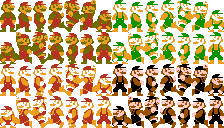
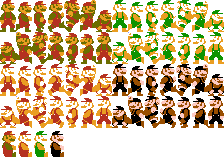
add: time limit

diff --git a/04_Physics/player.js b/04_Physics/player.js
@@ -4,8 +4,9 @@ const MARIO_WALK_LEFT = 2;
 const MARIO_WALK_RIGHT = 3;
 const MARIO_JUMP_LEFT = 4;
 const MARIO_JUMP_RIGHT = 5;
+const MARIO_DOWN_POLE_RIGHT = 6;
 
-const MARIO_DIE = 6;
+const MARIO_DIE = 7;
 
 const STATE_MINI = 0;
 const STATE_MAX = 1;
@@ -23,11 +24,12 @@ function Player(x, y, map, lives) {
 	// Loading spritesheets
 	var mario = new Texture("imgs/mario.png");
 	this.state = STATE_MINI;
-
+	
 	//pole related
 	this.movePlayer = true;
 	this.moveRigth = false;
 	this.prize = true;
+	this.movePole = false;
 
 	// Set attributes for VIDAS y activo
 	this.lives=lives;
@@ -66,6 +68,9 @@ function Player(x, y, map, lives) {
 
 	sprite.addAnimation();
 	sprite.addKeyframe(MARIO_JUMP_RIGHT, [16, 16, 16, 16]);
+
+	sprite.addAnimation();
+	sprite.addKeyframe(MARIO_DOWN_POLE_RIGHT, [64, 0, 16, 16]);
 
 	sprite.addAnimation();
 	sprite.addKeyframe(MARIO_DIE, [32, 16, 16, 16]);
@@ -129,6 +134,12 @@ function Player(x, y, map, lives) {
 	spriteStart.addKeyframe(MARIO_JUMP_RIGHT, [16, 80, 16, 16]);
 	spriteStart.addKeyframe(MARIO_JUMP_RIGHT, [96, 80, 16, 16]);
 
+	spriteStart.addAnimation();
+	spriteStart.addKeyframe(MARIO_DOWN_POLE_RIGHT, [64, 0, 16, 16]);
+	spriteStart.addKeyframe(MARIO_DOWN_POLE_RIGHT, [128, 0, 16, 16]);
+	spriteStart.addKeyframe(MARIO_DOWN_POLE_RIGHT, [64, 64, 16, 16]);
+	spriteStart.addKeyframe(MARIO_DOWN_POLE_RIGHT, [128, 64, 16, 16]);
+
 	//big
 	var marioBig = new Texture("imgs/marioBig.png");
 	spriteBig = new Sprite(x, y, 32, 64, 17, marioBig);
@@ -154,6 +165,9 @@ function Player(x, y, map, lives) {
 
 	spriteBig.addAnimation();
 	spriteBig.addKeyframe(MARIO_JUMP_RIGHT, [80, 0, 16, 32]);
+
+	spriteBig.addAnimation();
+	spriteBig.addKeyframe(MARIO_DOWN_POLE_RIGHT, [0, 126, 16, 32]);
 
 	//Start
 	spriteStartBig = new Sprite(x, y, 32, 64, 17, marioBig);
@@ -214,6 +228,11 @@ function Player(x, y, map, lives) {
 	spriteStartBig.addKeyframe(MARIO_JUMP_RIGHT, [80, 64, 16, 32]);
 	spriteStartBig.addKeyframe(MARIO_JUMP_RIGHT, [192, 64, 16, 32]);
 
+	spriteStartBig.addAnimation();
+	spriteStartBig.addKeyframe(MARIO_DOWN_POLE_RIGHT, [0, 126, 16, 32]);
+	spriteStartBig.addKeyframe(MARIO_DOWN_POLE_RIGHT, [16, 126, 16, 32]);
+	spriteStartBig.addKeyframe(MARIO_DOWN_POLE_RIGHT, [32, 126, 16, 32]);
+	spriteStartBig.addKeyframe(MARIO_DOWN_POLE_RIGHT, [48, 126, 16, 32]);
 
 	sprite.setAnimation(MARIO_STAND_RIGHT);
 	spriteStart.setAnimation(MARIO_STAND_RIGHT);
@@ -246,6 +265,14 @@ Player.prototype.update = function (deltaTime) {
 	if (this.live) {
 		this.controlFormaBrick(this.map.bricks);
 		this.controlFormaBrick(this.map.interrogation);
+		
+		if(this.movePole){
+			if (this.listSprit[this.state].currentAnimation != MARIO_DOWN_POLE_RIGHT){
+				this.listSprit[this.state].setAnimation(MARIO_DOWN_POLE_RIGHT);
+			}
+
+			this.listSprit[this.state].y +=2;
+		}
 		
 		if(this.moveRigth){
 			if (this.listSprit[this.state].currentAnimation != MARIO_WALK_RIGHT){
@@ -363,6 +390,13 @@ Player.prototype.update = function (deltaTime) {
 
 Player.prototype.liveUp = function liveUp(){
 	this.lives = this.lives + 1;
+}
+
+Player.prototype.timeOut = function timeOut() {
+	if(this.timeout){
+		this.state= STATE_MINI;
+	}
+	this.die();
 }
 
 Player.prototype.die = function die() {

diff --git a/04_Physics/scene.js b/04_Physics/scene.js
@@ -242,32 +242,34 @@ Scene.prototype.update = function (deltaTime) {
 			if(this.player.prize){
 				this.puntaje = this.puntaje + prize_pole[index];
 				this.player.prize = false;
+				this.player.movePole = true;
 			}
 			if(index<8){
-				this.player.listSprit[this.player.state].x = pole.sprite.x
-				setTimeout(() => {
-					this.player.listSprit[this.player.state].y = this.player.listSprit[this.player.state].y +2
-				}, 100);
+				this.player.listSprit[this.player.state].x = pole.sprite.x - 8
 			}
 			if(index==8){
+				this.player.movePole = false;
 				win= true;
 			}
 		}
 	})
 
 	if(win){
-		//console.log(this.player.listSprit[this.player.state].x)
-		if(count<80){
+		if(count<94){
 			this.player.moveRigth = true;
 			count+=1;
 		}else{
 			this.player.moveRigth = false;
+			//FIN ESCENA.
 		}
-		
+	}
+	if((this.currentTime / 1000)> TIMEOUT  && this.player.live){
+		this.player.timeOut();
 	}
 }
 
 Scene.prototype.draw = function () {
+	//console.log(this.currentTime)
 	// Get canvas object, then its context
 	var canvas = document.getElementById("game-layer");
 	var context = canvas.getContext("2d");
@@ -316,9 +318,11 @@ Scene.prototype.draw = function () {
 	context.restore();
 
 	text = "Puntaje: " + completeNumbre(this.puntaje, 6) + "  Monedas: " +this.cantMoney +"  Vidas: " + this.player.lives;
+	text2 ="Time: "+ completeNumbre(TIMEOUT - Math.floor(this.currentTime / 1000), 3) + " seconds"
 	context.font = "10px Mario";
 	context.fillStyle = "#fff";
 	context.fillText(text, 10, 25);
+	context.fillText(text2, 10, 40);
 }
 
 

diff --git a/04_Physics/game.js b/04_Physics/game.js
@@ -3,6 +3,7 @@
 
 const FRAME_RATE = 60;
 const TIME_PER_FRAME = 1000 / FRAME_RATE;
+const TIMEOUT = 200;
 
 var scene = new Scene(3);
 var previousTimestamp;
